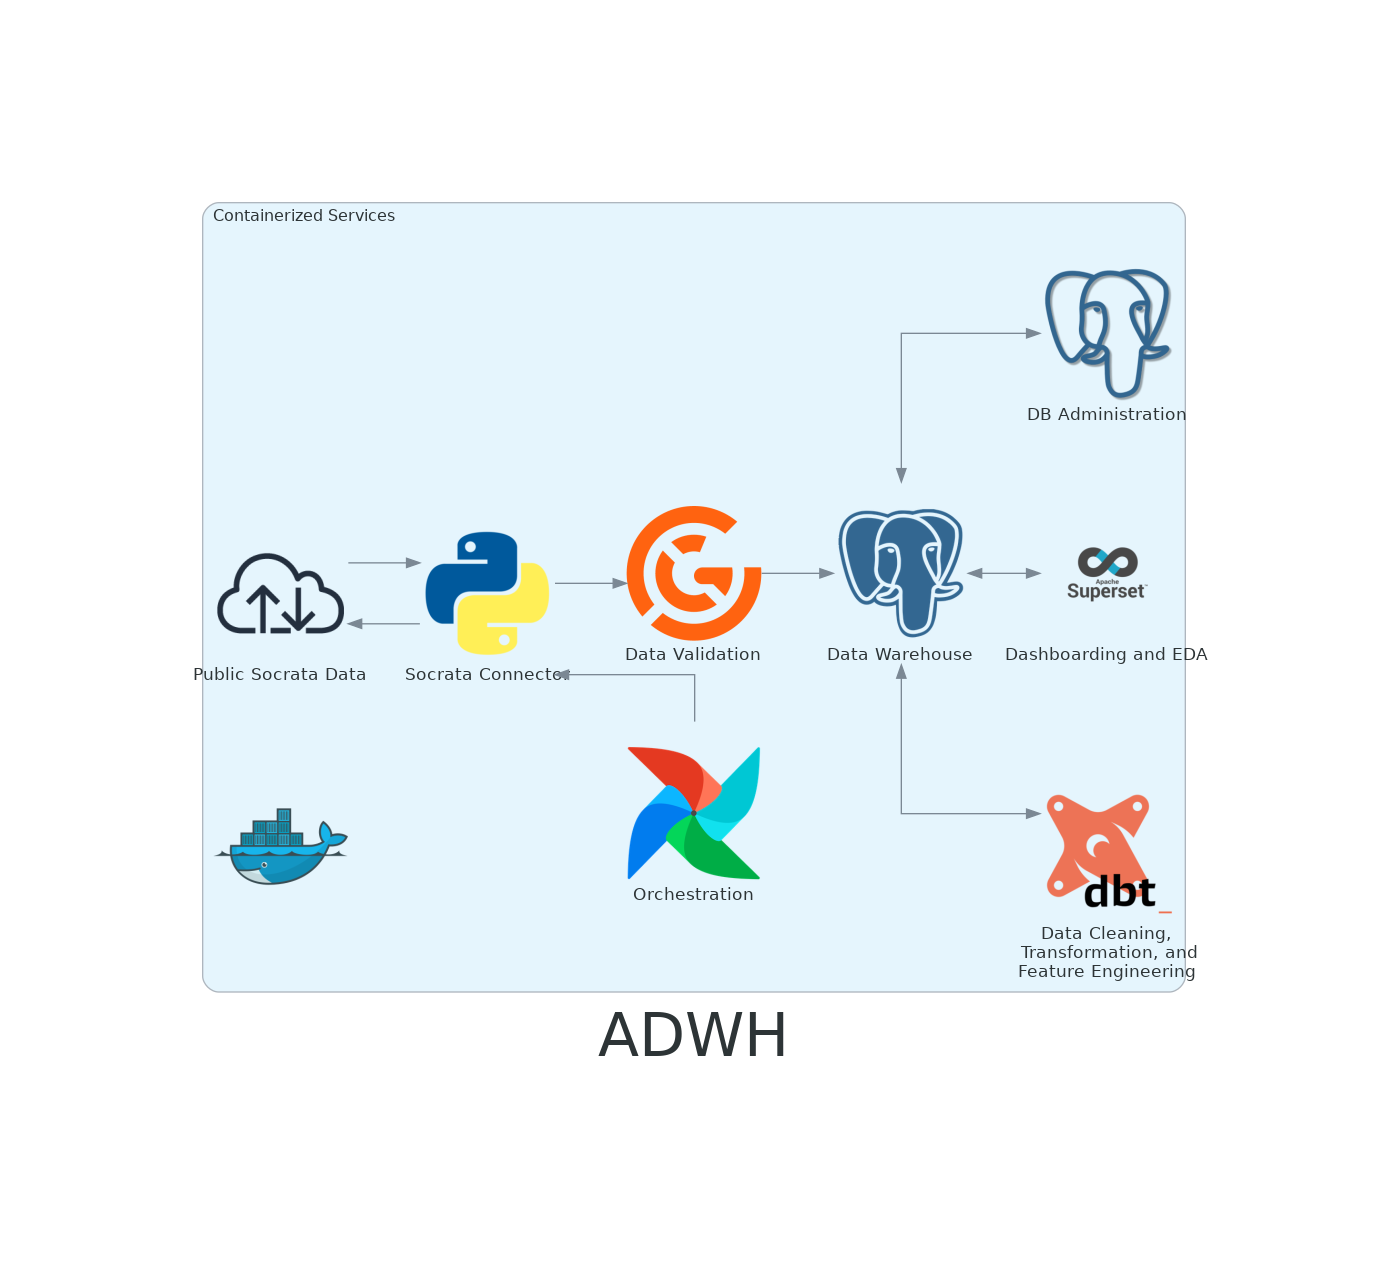
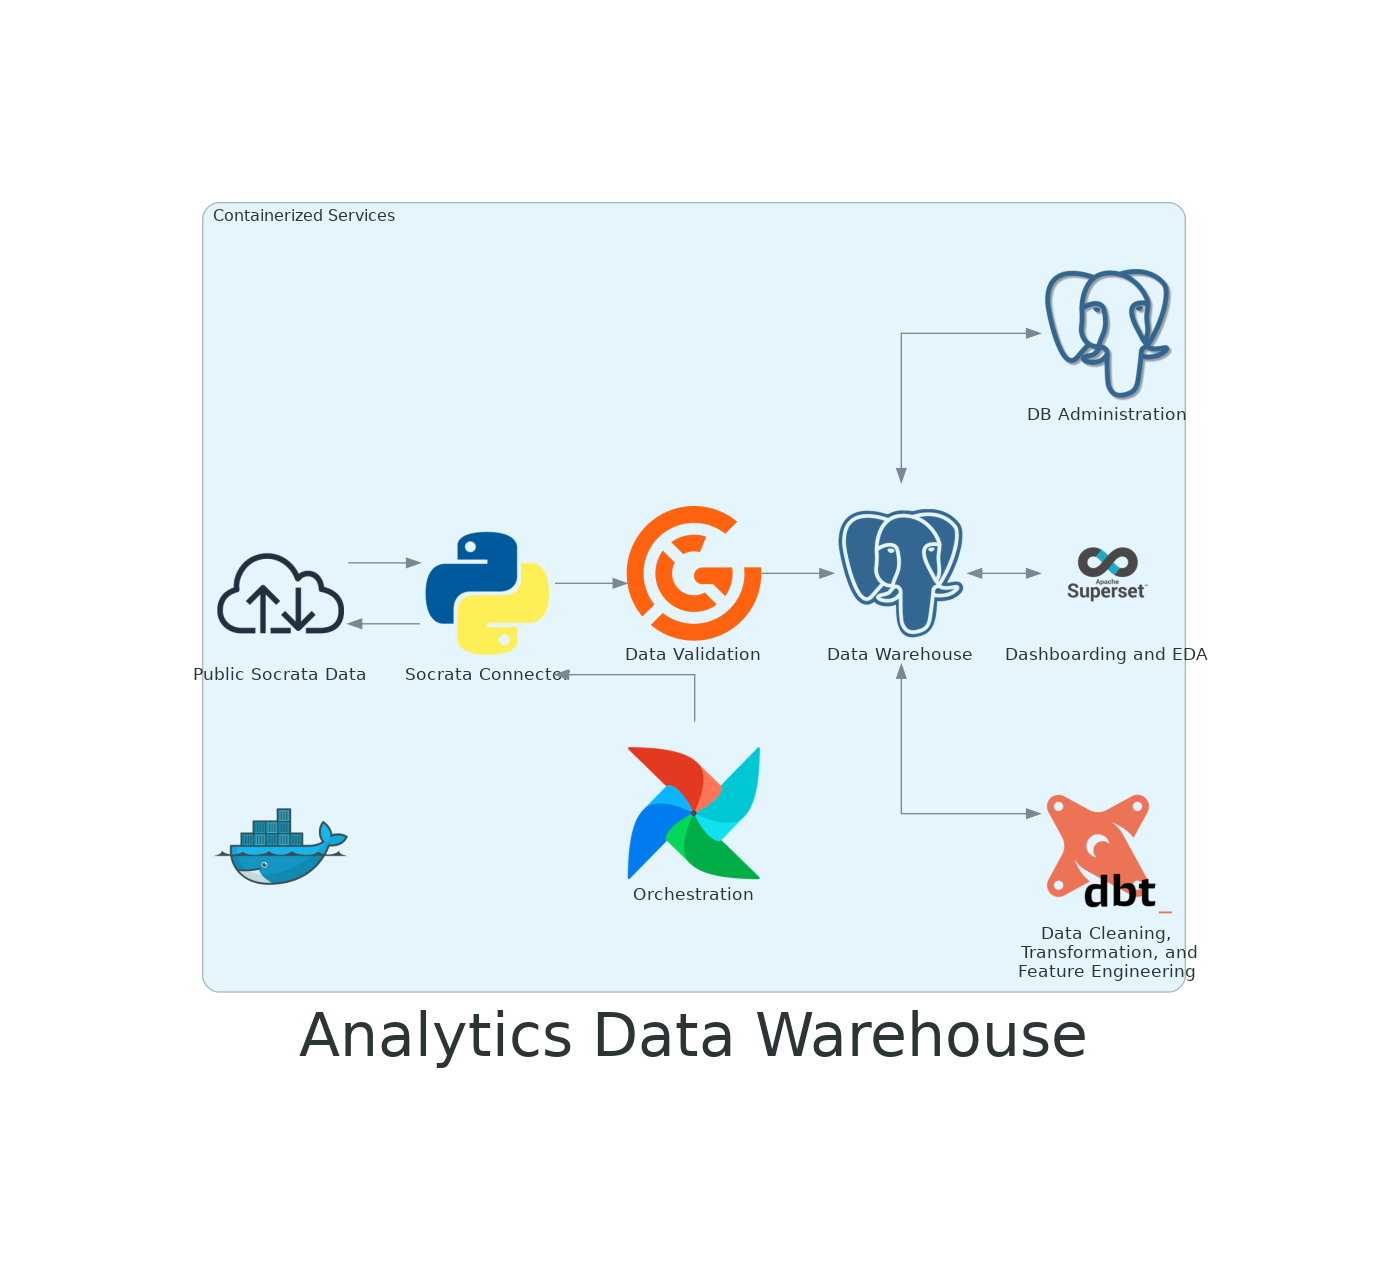
Finishes README's condensed instructions.

Changed region(s): [[0.2169, 0.7972, 0.7745, 0.8278]]

diff --git a/diagramming/adwh_diagrams.py b/diagramming/adwh_diagrams.py
@@ -20,7 +20,7 @@ graph_attr = {
     # "bgcolor": "transparent"
 }
 
-with Diagram(name="ADWH", show=False, filename="adwh_services", graph_attr=graph_attr, direction="LR", outformat="png"):
+with Diagram(name="Analytics Data Warehouse", show=False, filename="adwh_services", graph_attr=graph_attr, direction="LR", outformat="png"):
     with Cluster("Containerized Services"):
         docker = Docker()
         data_warehouse = Postgresql("Data Warehouse")

diff --git a/README.md b/README.md
@@ -70,25 +70,15 @@ To get the system up and running:
     make create_warehouse_infra
     ```
 
-5. Set up a connection between superset and your data warehouse TODO
+5. Set up a connection between superset and your data warehouse as shown [here](https://docs.analytics-data-where-house.dev/setup/superset_setup/).
 
-A more detailed walkthrough of setup instructions is available [here](https://docs.analytics-data-where-house.dev/setup/getting_started/), but the 
+A more complete walkthrough of setup instructions is available [here](https://docs.analytics-data-where-house.dev/setup/getting_started/), but the steps above are sufficent to start collecting and then visualizing and exploring data in this system.
 
 ## Usage
 
-After the [system is set up](https://docs.analytics-data-where-house.dev/setup/getting_started/), you can start up your system, unpause DAGs in the Airflow UI, and start adding Socrata data sets to the warehouse.
+After the system is set up, refer to the [User's Guide](https://docs.analytics-data-where-house.dev/user_guide/) for instructions on starting up the system (essentially run `docker compose up`), [running](https://docs.analytics-data-where-house.dev/user_guide/running_a_pipeline/) existing data collection and ELT pipelines, and [creating charts and dashboards](https://docs.analytics-data-where-house.dev/user_guide/visualization/) from data in your warehouse.
 
+## Development and Extension
 
-### Serving dbt Data Documentation and Discovery UI 
+To extend the system or build out new Socrata data sets, see the [Developer's Guide](https://docs.analytics-data-where-house.dev/dev_guide/).
 
-To generate and serve documentation for the data transformations executed by dbt, run the command below, and after the doc server has started up, go to [http://localhost:18080](http://localhost:18080) to explore the documentation UI.
-
-The documentation will be mainly based on the sources, column names, and descriptions recorded in the `.yml` file in the `.../dbt/models/...` directories with table-or-view-producing dbt scripts.
-
-```bash
-user@host:.../your_local_repo$ make serve_dbt_docs
-
-```
-<p align="center" width="100%">
-  <img src="docs/assets/imgs/dbt/dbt_doc_sample_page_w_lineage_graph.PNG" width="90%" alt="dbt documentation page with table lineage graph"/>
-</p>
